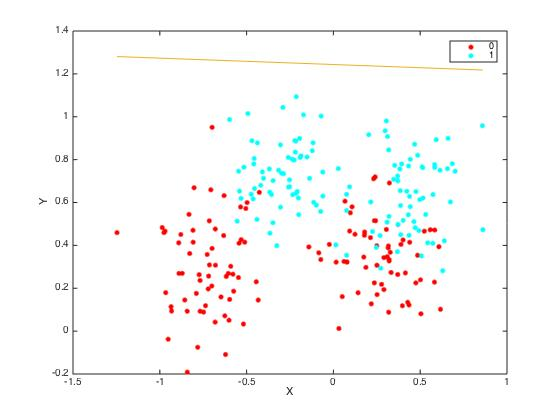
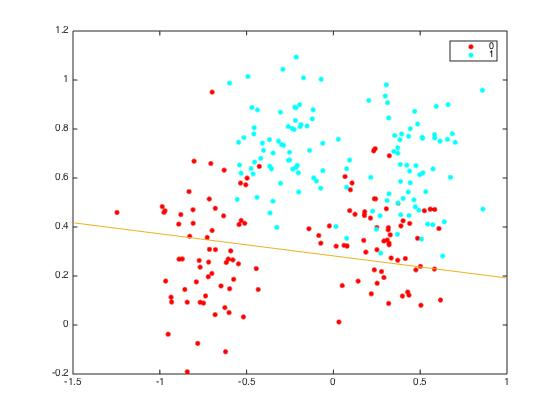
Clean-up

diff --git a/assignment1/assignment1_non_separable.m b/assignment1/assignment1_non_separable.m
@@ -4,9 +4,9 @@ data = importdata('two_class_example_not_separable.dat');
 
 bias = ones(row, 1); %generate bias term
 input = [bias, data(:,1:2)];
-output = data(:,3)*2 - 1;
+output = data(:,3)*2 - 1; %transform 0->-1 and 1->1
 
-epochs = 6;
+epochs = 10;
 rate = 0.1;
 
 fprintf('Learning rate: %f and epoch: %d \n', rate, epochs);
@@ -19,49 +19,18 @@ alpha1=-weights1(1)/weights1(3);
 beta1=-weights1(2)/weights1(3);
 
 
-epochs = 10;
-rate = 0.5;
-
-fprintf('Learning rate: %f and epoch: %d \n', rate, epochs);
-
-%get weights from the PCA 
-[weights2,errors2]=perceptronConvergenceAlgorithm(input, output, [0 0 0], rate, epochs);
-
-%calculate line coeficients from the weights
-alpha2=-weights2(1)/weights2(3);
-beta2=-weights2(2)/weights2(3);
-
-
-epochs = 10;
-rate = 1;
-
-fprintf('Learning rate: %f and epoch: %d \n', rate, epochs);
-
-%get weights from the PCA 
-[weights3,errors3]=perceptronConvergenceAlgorithm(input, output, [0 0 0], rate, epochs);
-
-%calculate line coeficients from the weights
-alpha3=-weights3(1)/weights3(3);
-beta3=-weights3(2)/weights3(3);
 
 
 %plotting data with separator line
 yline1=alpha1+beta1*M(:,2);
-yline2=alpha2+beta2*M(:,2);
-yline3=alpha3+beta3*M(:,2);
 
 figure
 gscatter(data(:,1),data(:,2),data(:,3)); hold on;
 plot(M(:,2),yline1); hold on;
-plot(M(:,2),yline2); hold on;
-plot(M(:,2),yline3); hold on;
    
 figure;
 %plot errors
 plot(errors1); hold on;
-plot(errors2); hold on;
-plot(errors3); hold on;
 xlim([0 epochs]);
-legend('0.1', '0.5', '1');
 
 

diff --git a/assignment1/assignment1.m b/assignment1/assignment1.m
@@ -1,4 +1,4 @@
-degree = 15; %set rotation degree
+degree = 30; %set rotation degree
 [a,b,class1]=generateData(500,1,0.0,0.5,1,0.1, degree); %generate class 1 data
 [c,d,class2]=generateData(500,1,0.0,-0.5,-1,0.1, degree); %generate class 2 data
 
@@ -11,7 +11,7 @@ input=M(:,1:3); %input for the PCA
 output=M(:,4); %output for the PCA 
 
 epochs = 10;
-rate = 0.01;
+rate = 0.1;
 
 fprintf('Learning rate: %f and epoch: %d \n', rate, epochs);
 
@@ -24,7 +24,7 @@ beta1=-weights1(2)/weights1(3);
 
 
 epochs = 10;
-rate = 0.05;
+rate = 0.5;
 
 fprintf('Learning rate: %f and epoch: %d \n', rate, epochs);
 
@@ -37,7 +37,7 @@ beta2=-weights2(2)/weights2(3);
 
 
 epochs = 10;
-rate = 0.1;
+rate = 1;
 
 fprintf('Learning rate: %f and epoch: %d \n', rate, epochs);
 
